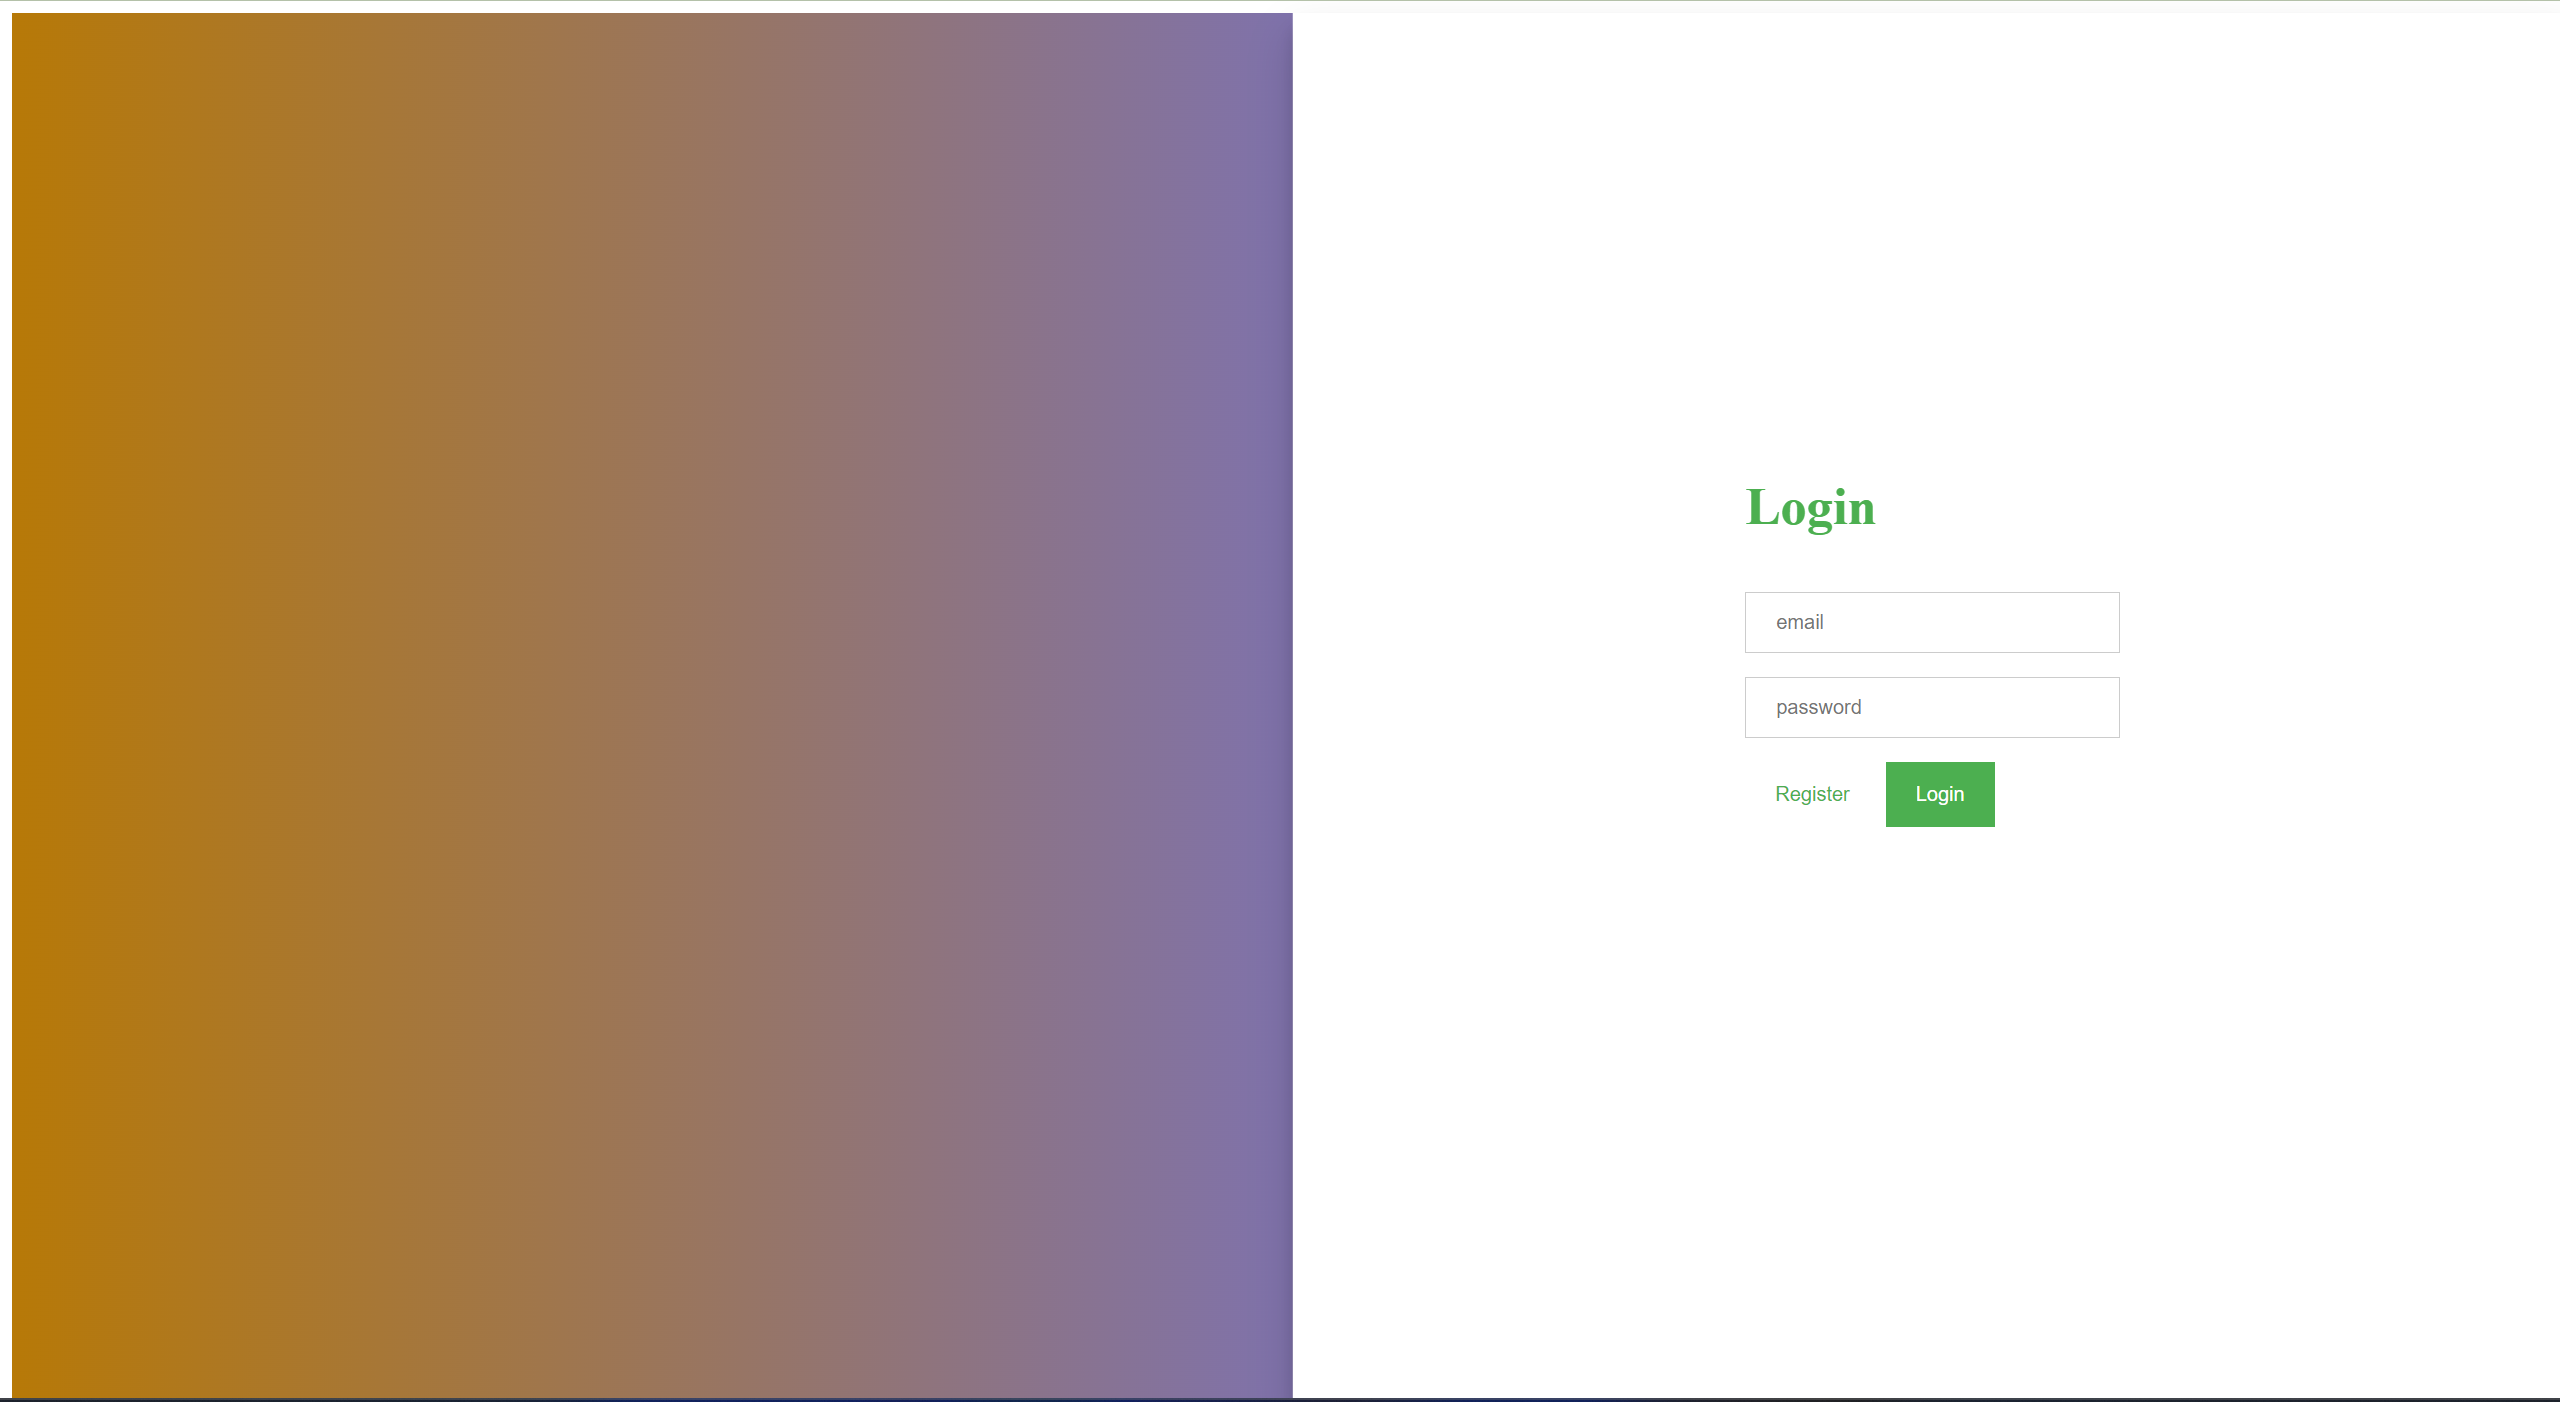
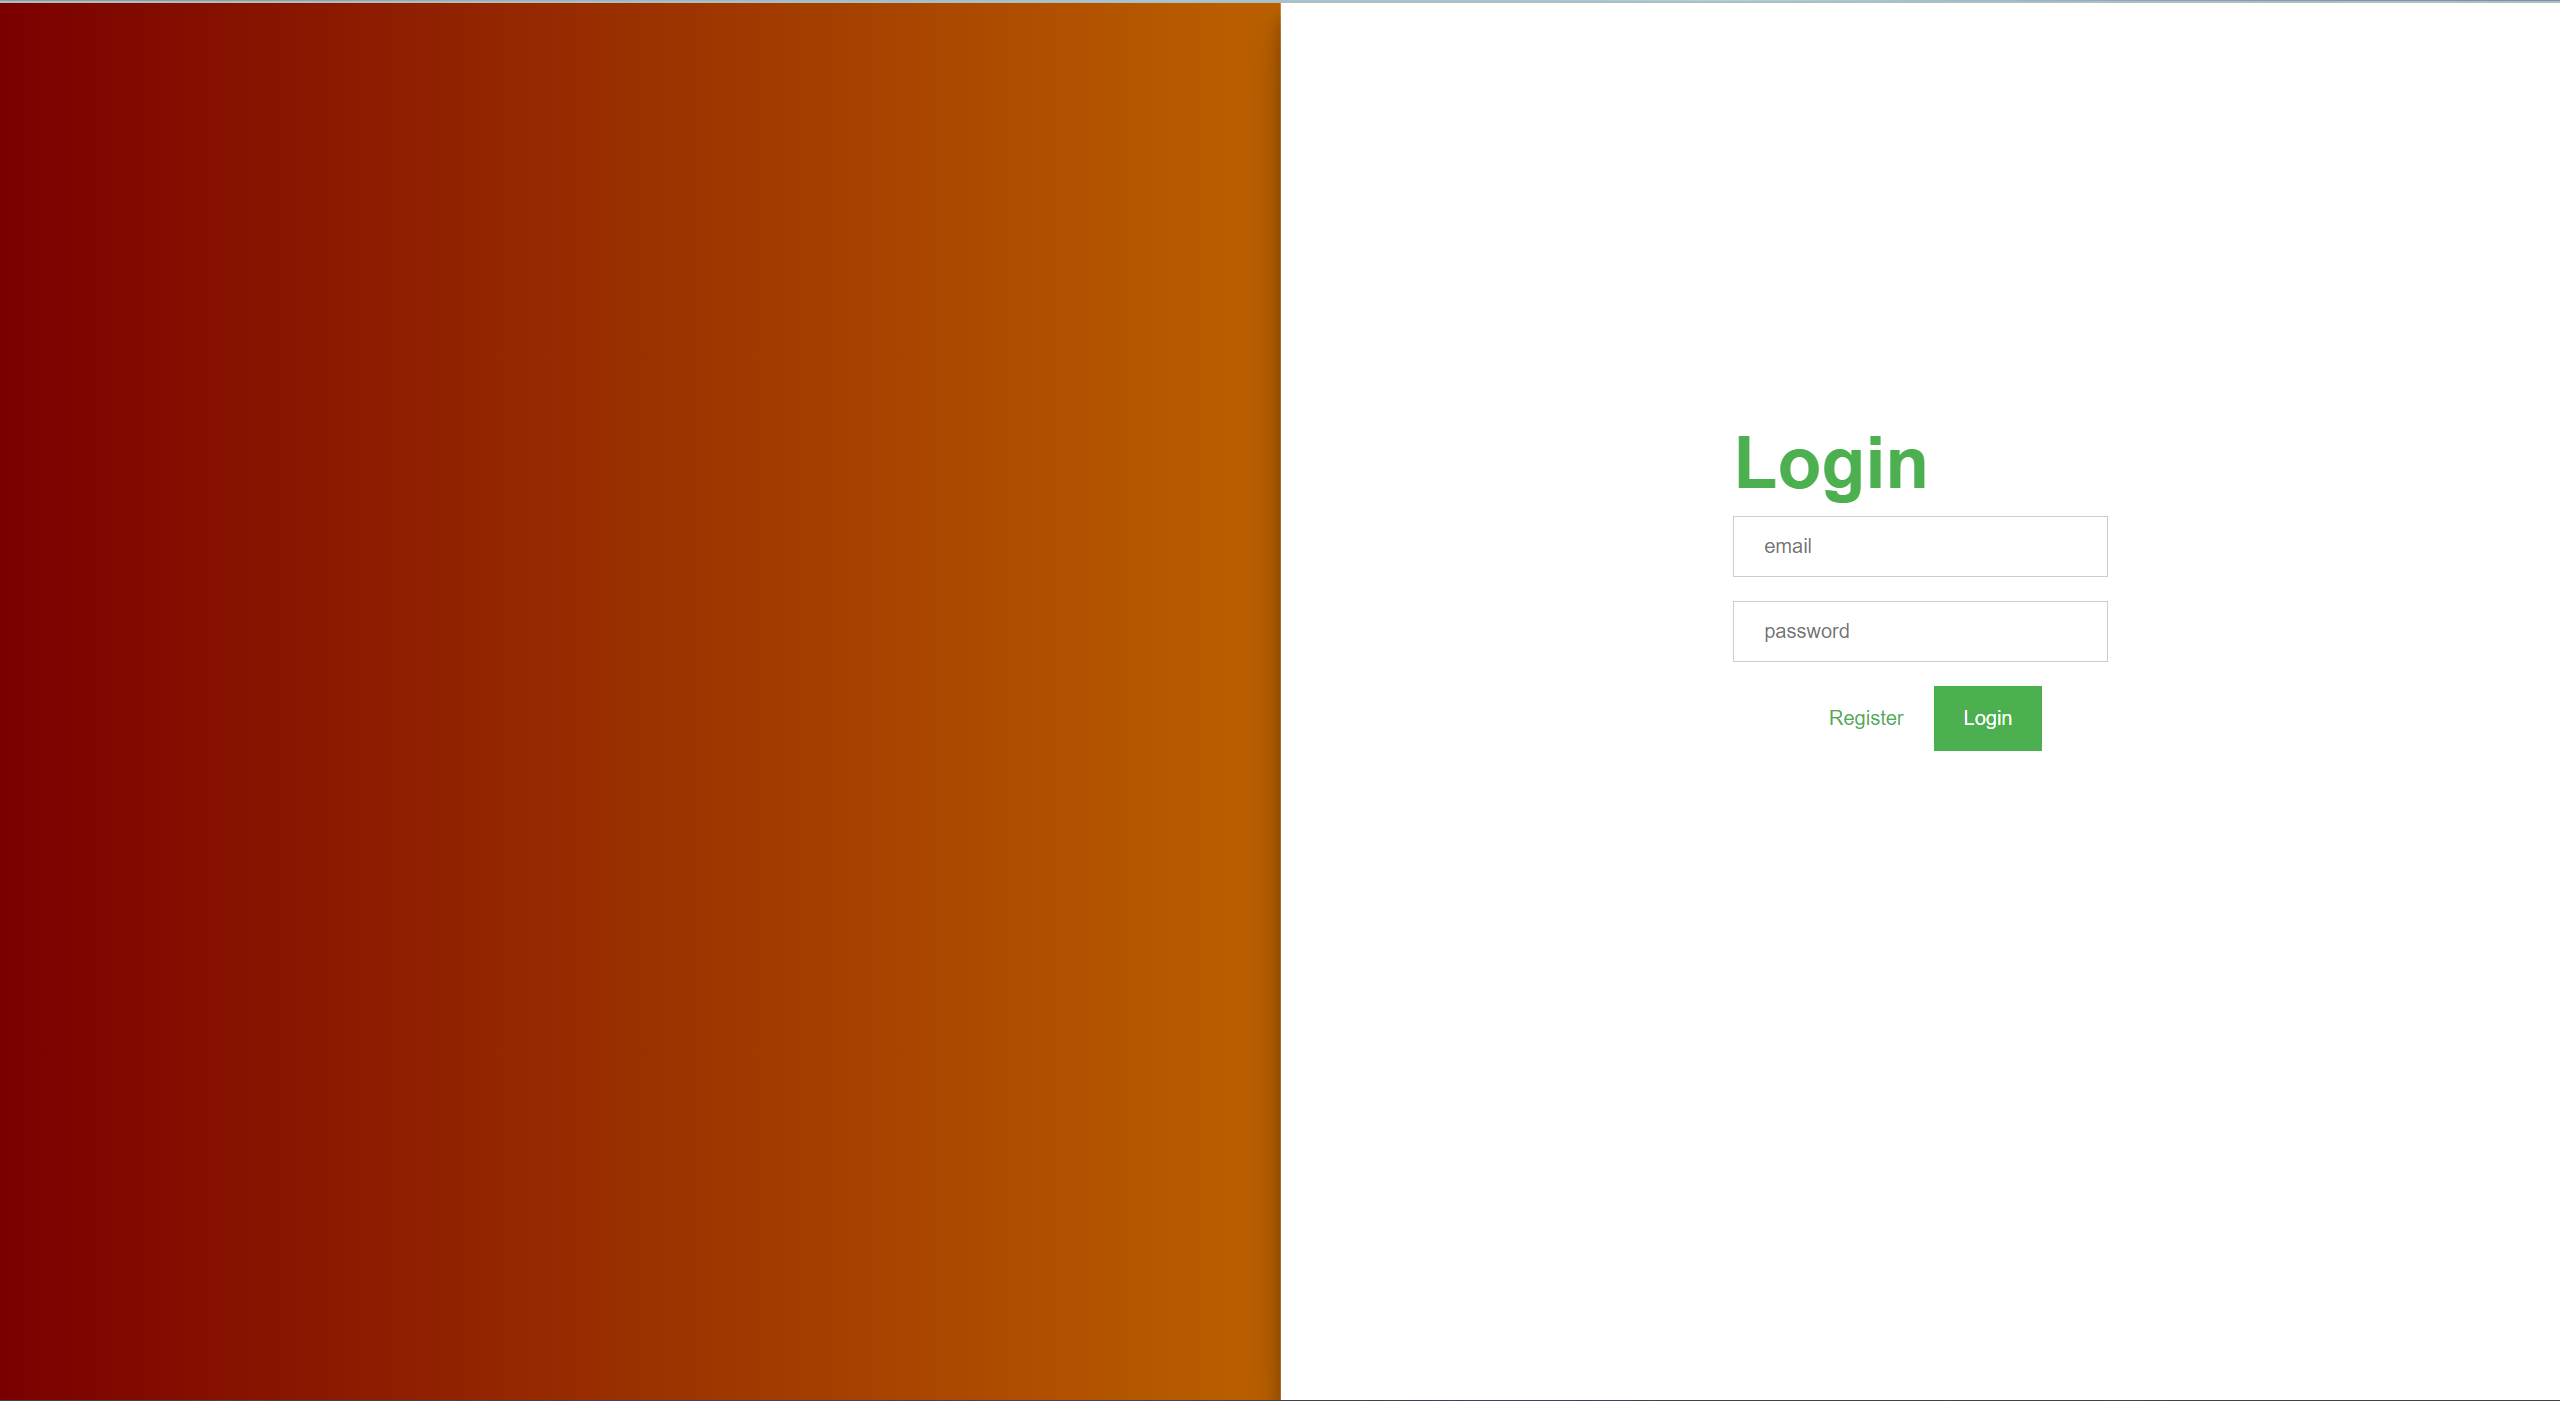
Add files via upload

diff --git a/1.html b/1.html
@@ -1,0 +1,234 @@
+<!DOCTYPE html>
+<html>
+
+<head>
+    <meta name="viewport" content="width=device-width, initial-scale=1" />
+    <script src="https://ajax.googleapis.com/ajax/libs/jquery/3.3.1/jquery.min.js">
+    </script>
+    <style>
+        * {
+            padding: 0;
+            margin: 0;
+
+        }
+
+        body {
+            height: 100%;
+            overflow: hidden;
+            width: 100%;
+            box-sizing: border-box;
+            font-family: Arial, Helvetica, sans-serif;
+        }
+
+        /* Adding background image to right side */
+        .background-Right {
+            position: absolute;
+            right: 0;
+            width: 50%;
+            height: 100%;
+            background: linear-gradient(to right, #1b0028, #740053);
+            background-size: cover;
+            background-position: 50% 50%;
+        }
+
+        /* Adding background image to left side */
+        .background-Left {
+            position: absolute;
+            left: 0;
+            width: 50%;
+            height: 100%;
+            background: linear-gradient(to right, #7a0000, #bc6100);
+            background-size: cover;
+            background-position: 50% 50%;
+        }
+
+        #background {
+            width: 100%;
+            height: 100%;
+            position: absolute;
+            z-index: -3;
+        }
+
+        /* Slide is used to slide the form left-right
+	sides when toggle on button */
+        #slide {
+            width: 50%;
+            max-height: 100%;
+            height: 100%;
+            overflow: hidden;
+            margin-left: 50%;
+            position: absolute;
+            box-shadow: 0 14px 28px rgba(0, 0, 0, 0.25),
+                0 10px 10px rgba(0, 0, 0, 0.22);
+        }
+
+        /* This make forms z-index greater
+than background-image */
+        .top {
+            width: 200%;
+            height: 100%;
+            position: relative;
+            left: 0;
+            left: -100%;
+        }
+
+        /* This indicates Login-form will
+appear on the left side */
+        .left {
+            width: 50%;
+            height: 100%;
+            background: #ffff;
+            left: 0;
+            position: absolute;
+        }
+
+        /* This indicates Register-form
+	will appear on the right side */
+        .right {
+            width: 50%;
+            height: 100%;
+            background: #ffff;
+            right: 0;
+            position: absolute;
+        }
+
+        /* Position the form into center
+of the viewbox */
+        .content {
+            width: 250px;
+            margin: 0 auto;
+            top: 30%;
+            position: absolute;
+            left: 50%;
+            margin-left: -125px;
+        }
+
+        .buttons {
+            display: flex;
+            justify-content: center;
+        }
+
+        .content h2 {
+            color: #4caf50;
+            font-size: 35px;
+            font-size: 3rem
+        }
+
+        button {
+            background-color: #4caf50;
+            color: white;
+            width: auto;
+            padding: 14px 20px;
+            margin: 8px 0;
+            border: none;
+            cursor: pointer;
+            transition: all 0.4s;
+        }
+
+        button.main:hover {
+            background-color: #006703;
+        }
+
+        input[type="text"],
+        input[type="password"] {
+            width: 100%;
+            padding: 12px 20px;
+            margin: 8px 0;
+            display: inline-block;
+            border: 1px solid #ccc;
+            box-sizing: border-box;
+        }
+
+        /* off class is used to indicate
+the active button like login
+or register button */
+        .on-off {
+            background: none;
+            color: #4caf50;
+            box-shadow: none;
+        }
+
+        @media (max-width:700px) {
+            .buttons {
+                display: flex;
+                flex-direction: column-reverse;
+            }
+        }
+    </style>
+</head>
+
+<body>
+    <div id="background">
+        <div class="background-Right"></div>
+        <div class="background-Left"></div>
+    </div>
+
+    <div id="slide">
+        <div class="top">
+            <div class="left">
+                <div class="content">
+                    <h2>Sign Up</h2>
+                    <form method="post" onsubmit="return false;">
+                        <div>
+                            <input type="text" placeholder="email" />
+
+                            <br />
+                            <input type="password" placeholder="password" />
+                        </div>
+                    </form>
+                    <div class="buttons">
+                        <button id="LeftToRight" class="on-off">Login
+                        </button>
+
+                        <button class="main">Register</button>
+                    </div>
+
+
+                </div>
+            </div>
+
+            <div class="right">
+                <div class="content">
+                    <h2>Login</h2>
+                    <form method="post" onsubmit="return false;">
+                        <div>
+                            <input type="text" placeholder="email" />
+
+                            <br />
+                            <input type="password" placeholder="password" />
+                        </div>
+                        <div class="buttons">
+                            <button id="RightToLeft" class="on-off">Register
+                            </button>
+
+                            <button class="main">Login</button>
+                        </div>
+
+                    </form>
+                </div>
+            </div>
+        </div>
+    </div>
+</body>
+<script>
+    $(document).ready(function () {
+        $("#RightToLeft").on("click", function () {
+            $("#slide").animate({
+                marginLeft: "0",
+            });
+            $(".top").animate({
+                marginLeft: "100%",
+            });
+        });
+        $("#LeftToRight").on("click", function () {
+            $("#slide").animate({
+                marginLeft: "50%",
+            });
+            $(".top").animate({
+                marginLeft: "0",
+            });
+        });
+    });
+</script>
+
+</html>
